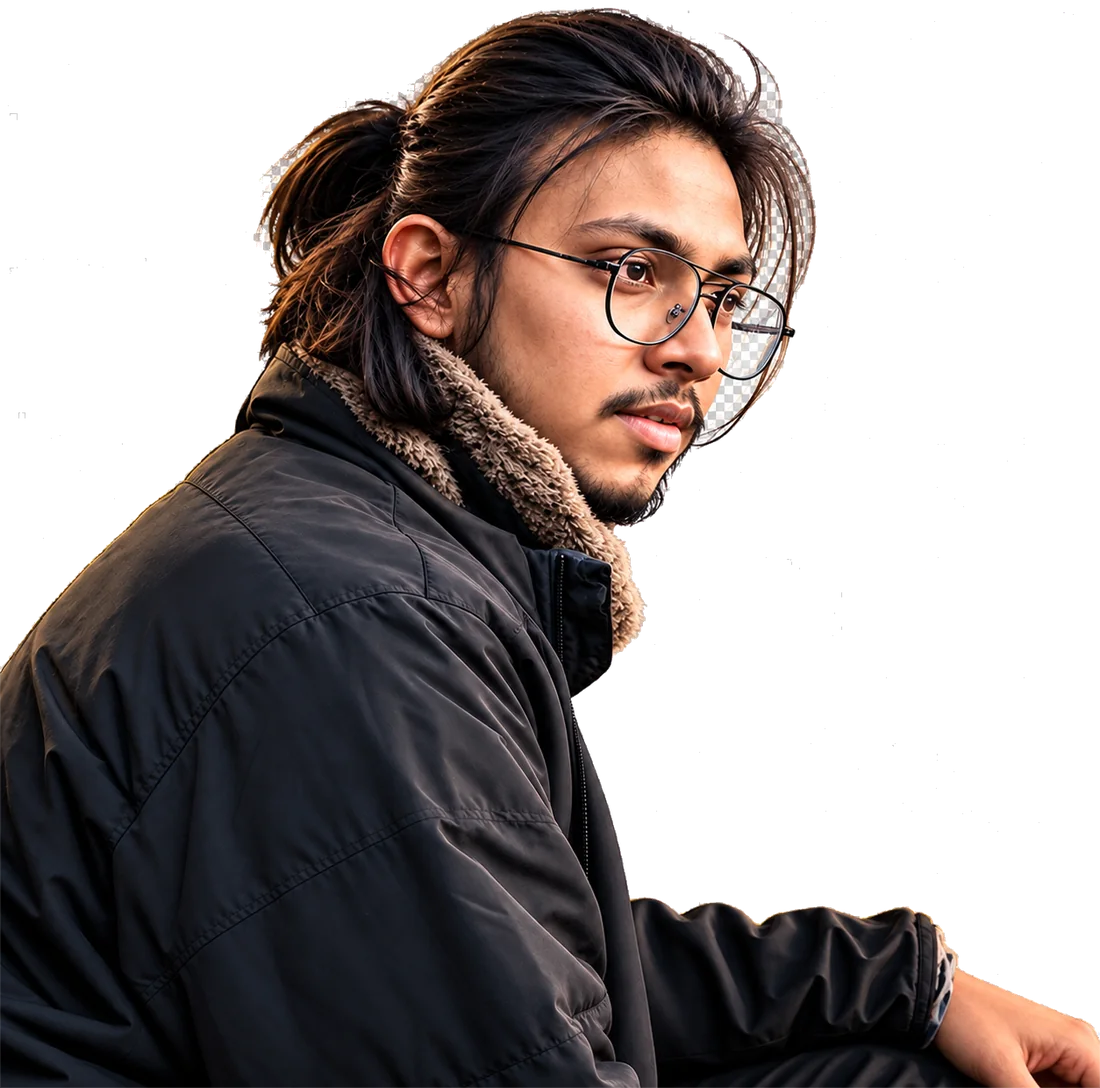
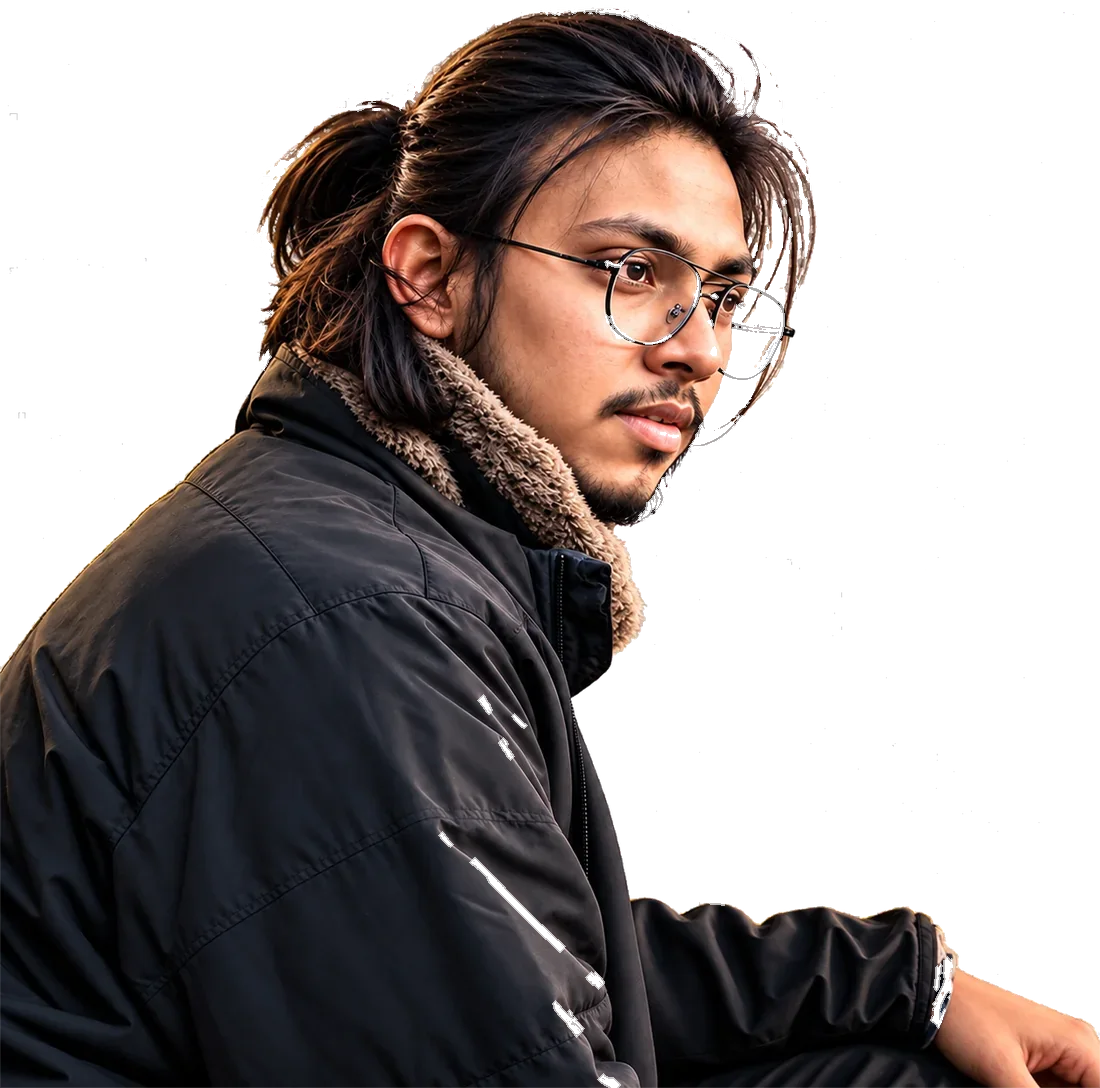
Freebuff: Fix the two problems in my existing portfolio hero sectio...

diff --git a/src/components/Hero.tsx b/src/components/Hero.tsx
@@ -37,49 +37,59 @@ export default function Hero() {
           </span>
         </div>
 
-        <div className="mt-10 grid gap-12 sm:mt-14 lg:grid-cols-[1.28fr_0.72fr] lg:items-start lg:gap-16 lg:[&:has([data-portrait=missing])]:grid-cols-[1fr] xl:gap-24">
-          {/* ---------------------------------------------------------- social row */}
-          <div className="flex items-center gap-3 self-start sm:hidden lg:flex">
-            <a
-              href={LINKS.github}
-              target="_blank"
-              rel="noreferrer noopener"
-              className="flex size-9 items-center justify-center border border-line/90 bg-[#0e0c0e] transition-colors duration-300 hover:border-crimson hover:text-white"
-              aria-label="Rishi Naskar on GitHub"
+        <div className="mt-10 grid items-start gap-12 sm:mt-14 lg:grid-cols-[0.72fr_1.28fr] lg:gap-16 xl:gap-24 lg:[&:has([data-portrait=missing])]:grid-cols-[1fr]">
+          {/* ------------------------------------------------------- portrait */}
+          <div className="relative order-2 flex justify-center lg:order-none lg:justify-start lg:[&:has([data-portrait=missing])]:hidden">
+            <div
+              className="hero-rise w-full max-w-[26rem] sm:max-w-[31rem] lg:mt-0 lg:w-[118%] lg:max-w-none lg:-ml-4 xl:-ml-8"
+              style={{ "--delay": "0.62s" } as React.CSSProperties}
             >
-              <Github className="size-4" aria-hidden="true" />
-            </a>
-            <a
-              href={LINKS.linkedin}
-              target="_blank"
-              rel="noreferrer noopener"
-              className="flex size-9 items-center justify-center border border-line/90 bg-[#0e0c0e] transition-colors duration-300 hover:border-crimson hover:text-white"
-              aria-label="Rishi Naskar on LinkedIn"
-            >
-              <Linkedin className="size-4" aria-hidden="true" />
-            </a>
-            <a
-              href={LINKS.twitter}
-              target="_blank"
-              rel="noreferrer noopener"
-              className="flex size-9 items-center justify-center border border-line/90 bg-[#0e0c0e] transition-colors duration-300 hover:border-crimson hover:text-white"
-              aria-label="Rishi Naskar on X"
-            >
-              <X className="size-4" aria-hidden="true" />
-            </a>
-            <a
-              href={LINKS.instagram}
-              target="_blank"
-              rel="noreferrer noopener"
-              className="flex size-9 items-center justify-center border border-line/90 bg-[#0e0c0e] transition-colors duration-300 hover:border-crimson hover:text-white"
-              aria-label="Rishi Naskar on Instagram"
-            >
-              <Instagram className="size-4" aria-hidden="true" />
-            </a>
+              <Portrait />
+            </div>
           </div>
 
           {/* ---------------------------------------------------------- name */}
-          <div>
+          <div className="order-1 lg:order-none">
+            {/* -------------------------------------------------- social row */}
+            <div className="mb-10 flex items-center gap-3 sm:hidden lg:flex">
+              <a
+                href={LINKS.github}
+                target="_blank"
+                rel="noreferrer noopener"
+                className="flex size-9 items-center justify-center border border-line/90 bg-[#0e0c0e] transition-colors duration-300 hover:border-crimson hover:text-white"
+                aria-label="Rishi Naskar on GitHub"
+              >
+                <Github className="size-4" aria-hidden="true" />
+              </a>
+              <a
+                href={LINKS.linkedin}
+                target="_blank"
+                rel="noreferrer noopener"
+                className="flex size-9 items-center justify-center border border-line/90 bg-[#0e0c0e] transition-colors duration-300 hover:border-crimson hover:text-white"
+                aria-label="Rishi Naskar on LinkedIn"
+              >
+                <Linkedin className="size-4" aria-hidden="true" />
+              </a>
+              <a
+                href={LINKS.twitter}
+                target="_blank"
+                rel="noreferrer noopener"
+                className="flex size-9 items-center justify-center border border-line/90 bg-[#0e0c0e] transition-colors duration-300 hover:border-crimson hover:text-white"
+                aria-label="Rishi Naskar on X"
+              >
+                <X className="size-4" aria-hidden="true" />
+              </a>
+              <a
+                href={LINKS.instagram}
+                target="_blank"
+                rel="noreferrer noopener"
+                className="flex size-9 items-center justify-center border border-line/90 bg-[#0e0c0e] transition-colors duration-300 hover:border-crimson hover:text-white"
+                aria-label="Rishi Naskar on Instagram"
+              >
+                <Instagram className="size-4" aria-hidden="true" />
+              </a>
+            </div>
+
             <h1 className="font-signature text-ivory">
               <span className="sr-only">Rishi Naskar</span>
               <span aria-hidden="true" className="block">
@@ -192,16 +202,6 @@ export default function Hero() {
                   />
                 </a>
               </div>
-            </div>
-          </div>
-
-          {/* ------------------------------------------------------- portrait */}
-          <div className="relative flex justify-center lg:justify-end lg:pt-10 lg:[&:has([data-portrait=missing])]:hidden">
-            <div
-              className="hero-rise w-full max-w-[26rem] sm:max-w-[31rem] lg:mt-8 lg:w-[118%] lg:max-w-none lg:-mr-8 xl:-mr-16"
-              style={{ "--delay": "0.62s" } as React.CSSProperties}
-            >
-              <Portrait />
             </div>
           </div>
         </div>

diff --git a/src/components/Logo.tsx b/src/components/Logo.tsx
@@ -1,4 +1,4 @@
-import { useEffect, useRef } from "react";
+import { useNavigate } from "react-router";
 
 /**
  * Logo — the typographic "Rishi Naskar" wordmark in the header.
@@ -11,39 +11,21 @@ export function Logo({
   onClick,
 }: {
   className?: string;
-  onClick?: () => void;
+  onClick?: (event: React.MouseEvent<HTMLAnchorElement>) => void;
 }) {
-  const anchorRef = useRef<HTMLAnchorElement>(null);
-
-  useEffect(() => {
-    const a = anchorRef.current;
-    if (!a) return;
-
-    const onKeyDown = (event: KeyboardEvent) => {
-      if (event.key === "Enter" || event.key === " ") {
-        event.preventDefault();
-        a.click();
-      }
-    };
-    a.addEventListener("keydown", onKeyDown);
-    return () => a.removeEventListener("keydown", onKeyDown);
-  }, []);
+  const navigate = useNavigate();
 
   const handleClick = (event: React.MouseEvent<HTMLAnchorElement>) => {
     if (onClick) onClick(event);
     if (window.location.pathname === "/") {
       window.scrollTo({ top: 0, behavior: "smooth" });
     } else {
-      window.location.href = "/";
-      // @ts-ignore
-      (window.location as Location & { href: string }).href = "/";
-      void (window.location as Location & { href: string }).href;
+      navigate("/", { replace: true });
     }
   };
 
   return (
     <a
-      ref={anchorRef}
       href="/"
       onClick={handleClick}
       className={className}

diff --git a/scripts/portrait-clean.py b/scripts/portrait-clean.py
@@ -1,0 +1,83 @@
+from PIL import Image
+import numpy as np
+from scipy import ndimage
+
+INK = np.array([8.0, 8.0, 8.0])
+
+
+def detect(rgb, alpha, dark_radius=14):
+    lum = 0.2126 * rgb[..., 0] + 0.7152 * rgb[..., 1] + 0.0722 * rgb[..., 2]
+    sat = rgb.max(2) - rgb.min(2)
+    bright = (lum > 150) & (sat < 28) & (alpha > 0.4)
+    # "visually black": true black, or a transparent pixel compositing on black
+    dark = (lum < 40) | (alpha < 0.5)
+    dark_dil = ndimage.binary_dilation(dark, iterations=dark_radius)
+    return lum, sat, bright, dark_dil
+
+
+def artifact_mask(rgb, alpha):
+    lum, sat, bright, dark_dil = detect(rgb, alpha)
+    remove = np.zeros_like(bright)
+    lbl, n = ndimage.label(bright)
+    if n == 0:
+        return remove, np.zeros_like(bright), lum
+    sizes = ndimage.sum(bright, lbl, range(1, n + 1))
+    for cid in range(1, n + 1):
+        px = lbl == cid
+        size = int(sizes[cid - 1])
+        vals = lum[px]
+        mean, std = float(vals.mean()), float(vals.std())
+        adjacency = float((dark_dil & px).sum()) / size
+        # checkerboard cells: uniform near-white fill or strongly bounded by black
+        if size >= 40 and (adjacency >= 0.30 or (std < 12 and mean > 175)):
+            remove |= px
+        elif size >= 10 and adjacency >= 0.55:
+            remove |= px  # slivers left at cell edges
+    # partially keyed grey edges around the removed cells
+    grey = (lum > 90) & (lum < 156) & (sat < 26) & (alpha > 0.2)
+    halo = grey & ndimage.binary_dilation(remove, iterations=6)
+    return remove, halo, lum
+
+
+def clean_flat(path, out):
+    a = np.asarray(Image.open(path).convert("RGB")).astype(np.float32)
+    alpha = np.ones(a.shape[:2], dtype=np.float32)
+    total = 0
+    for _ in range(4):
+        remove, halo, _ = artifact_mask(a, alpha)
+        bad = remove | halo
+        before = int(bad.sum())
+        if before < 150:
+            break
+        total += before
+        a[bad] = INK
+    a[(a.max(2) - a.min(2) < 20) & (a[..., 0] > 150)] = INK  # neutral-white dust
+    Image.fromarray(np.clip(a, 0, 255).astype(np.uint8), "RGB").save(out, "WEBP", quality=88, method=6)
+    print(f"{path}: removed {total} px ({round(total / bad.size * 100, 2)}%) -> {out}")
+
+
+def clean_alpha(path, out):
+    im = Image.open(path).convert("RGBA")
+    a = np.asarray(im).astype(np.float32)
+    rgb, alpha = a[..., :3].copy(), a[..., 3] / 255.0
+    total = 0
+    for _ in range(4):
+        remove, halo, _ = artifact_mask(rgb, alpha)
+        bad = remove | halo
+        before = int(bad.sum())
+        if before < 150:
+            break
+        total += before
+        alpha[bad] = 0.0
+        # soften the cut: fade alpha over a 2px ring around the removed cells
+        ring = ~bad & (alpha > 0) & ndimage.binary_dilation(bad, iterations=2)
+        grey2 = np.abs(rgb.max(2) - rgb.min(2)) < 30
+        alpha[ring & grey2] *= 0.35
+    Image.fromarray(np.clip(np.dstack([rgb, (alpha * 255).astype(np.float32)]), 0, 255).astype(np.uint8), "RGBA").save(out, "WEBP", quality=84, method=6)
+    print(f"{path}: cleared {total} px ({round(total / bad.size * 100, 2)}%) -> {out}")
+
+
+clean_flat("public/portrait-new.webp", "public/portrait-new.webp")
+clean_alpha("public/portrait.webp", "public/portrait.webp")
+Image.open("public/portrait.webp").convert("RGBA").save("public/portrait.png", optimize=True)
+print("public/portrait.png regenerated from cleaned portrait.webp")

diff --git a/scripts/portrait-audit.py b/scripts/portrait-audit.py
@@ -1,0 +1,36 @@
+from PIL import Image
+import numpy as np
+from scipy import ndimage
+
+
+def stats(path):
+    im = Image.open(path).convert("RGBA")
+    a = np.asarray(im).astype(np.float32)
+    h, w = a.shape[:2]
+    rgb, alpha = a[..., :3], a[..., 3] / 255.0
+    lum = 0.2126 * rgb[..., 0] + 0.7152 * rgb[..., 1] + 0.0722 * rgb[..., 2]
+    sat = rgb.max(2) - rgb.min(2)
+    bright = (lum > 150) & (sat < 28) & (alpha > 0.4)
+    dark = (lum < 40) | (alpha < 0.5)
+    dark_dil = ndimage.binary_dilation(dark, iterations=14)
+    adj = (bright & dark_dil).sum() / max(bright.sum(), 1)
+    print(f"{path}: bright-neutral {int(bright.sum())} px ({round(float(bright.mean())*100,2)}%), near-black-adjacent share {round(float(adj)*100,1)}%")
+    return a, alpha
+
+
+for p in ["public/portrait-new.webp", "public/portrait.webp", "public/portrait.png"]:
+    stats(p)
+
+# identity check: subject warm pixels unchanged after cleaning
+new = np.asarray(Image.open("public/portrait-new.webp").convert("RGB")).astype(np.float32)
+old = np.asarray(Image.open(".backup-portrait-new.webp").convert("RGB")).astype(np.float32)
+diff = np.abs(new - old).sum(2)
+changed = diff > 10
+lum = 0.2126 * old[..., 0] + 0.7152 * old[..., 1] + 0.0722 * old[..., 2]
+sat = old.max(2) - old.min(2)
+warm = (sat > 22) & (lum > 90) & (lum < 235)
+print("changed px:", int(changed.sum()), f"({round(float(changed.mean())*100,2)}%)")
+print("warm/skin px touched:", int((changed & warm).sum()), f"({round(float((changed & warm).sum() / warm.sum() * 100),2)}% of skin)")
+ys, xs = np.where(changed)
+if len(ys):
+    print("changed region bbox:", xs.min(), ys.min(), xs.max(), ys.max())
